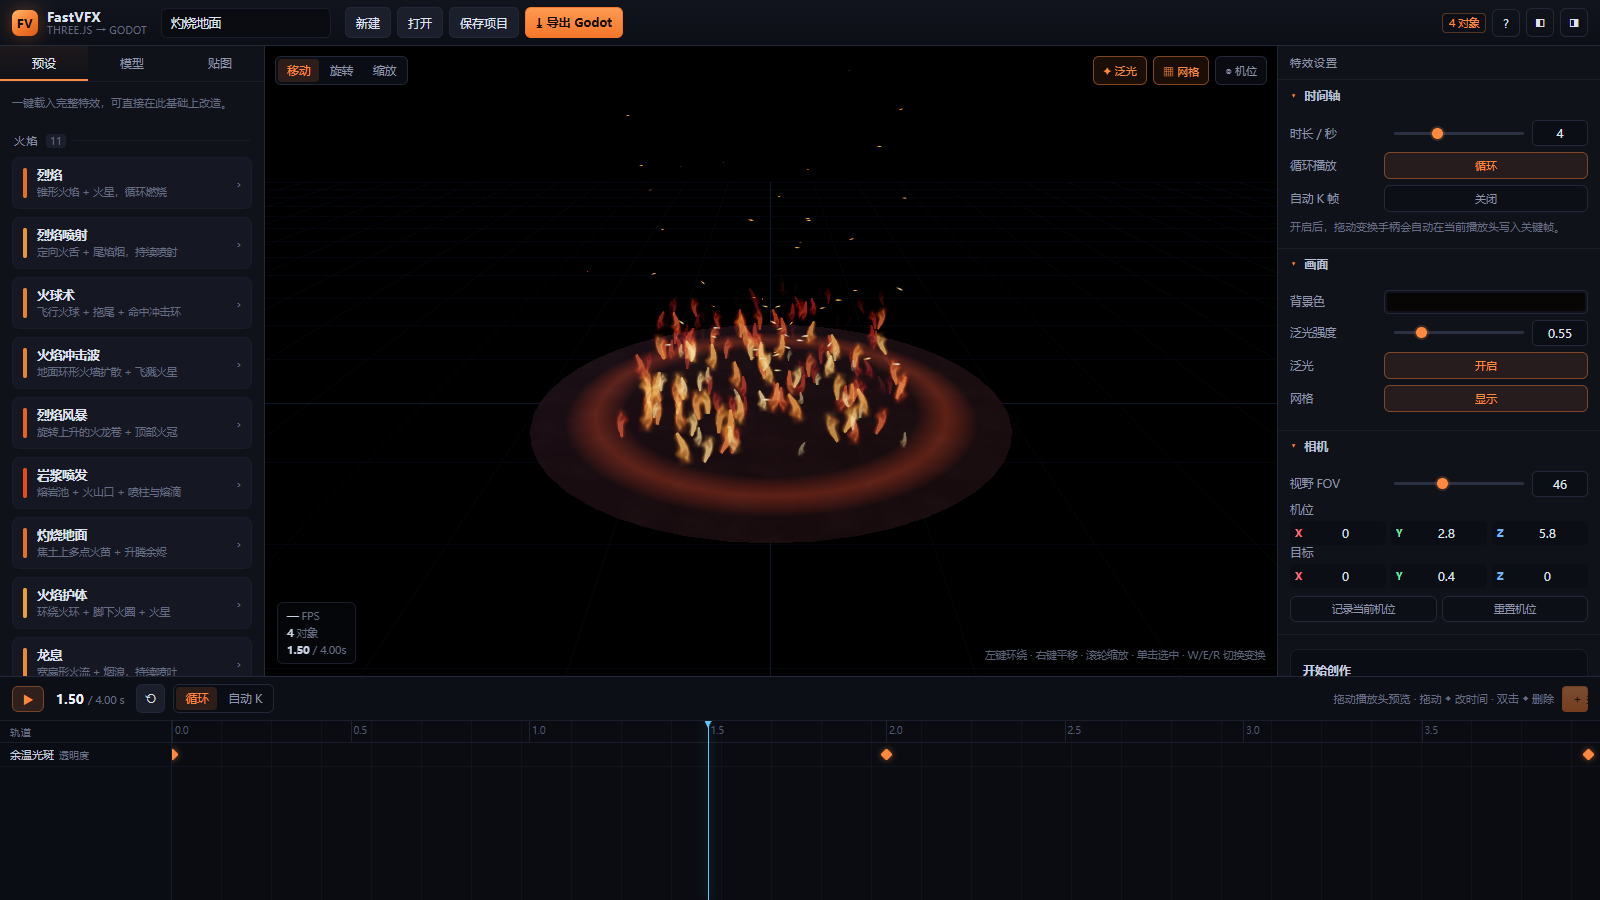
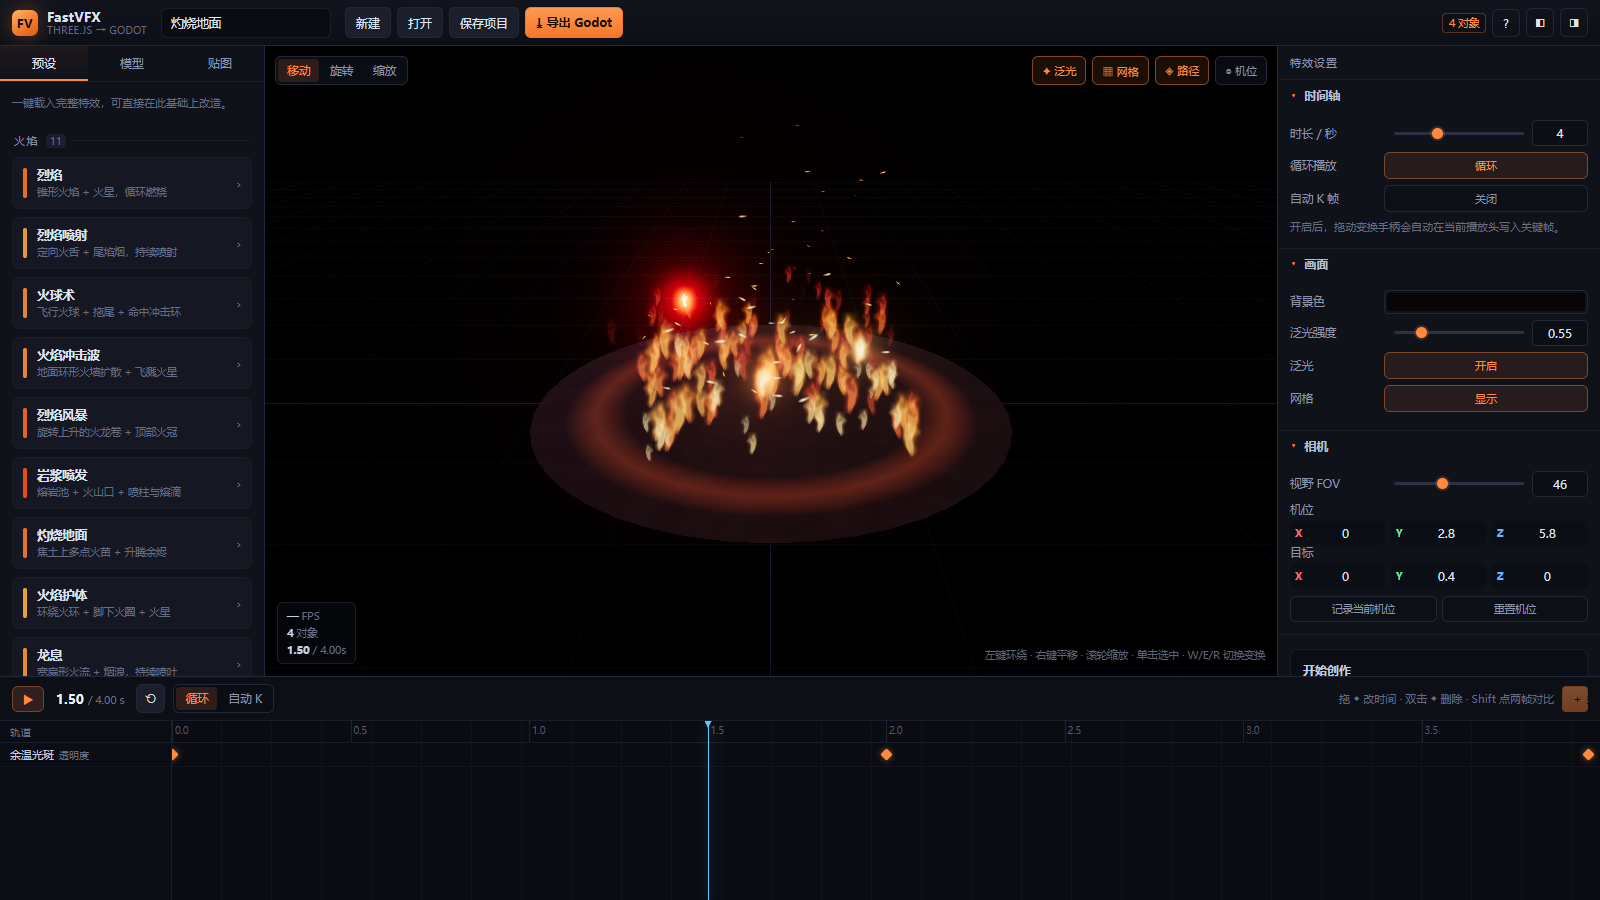
fix(vfx): 火焰/光束竖向贴图不再上下翻转，直立对齐速度方向并底边锚定生长

Changed region(s): [[0.375, 0.2489, 0.5938, 0.5289], [0.8438, 0.7467, 0.9688, 0.8089], [0.625, 0.0622, 0.75, 0.0933]]

diff --git a/src/core/particles.ts b/src/core/particles.ts
@@ -13,6 +13,7 @@ attribute float iStretch;
 attribute float iSeed;
 
 uniform float uAlign;
+uniform float uAxis;
 
 varying vec4 vColor;
 varying vec2 vUv;
@@ -26,13 +27,16 @@ void main() {
   vec4 mv = modelViewMatrix * vec4(iPos, 1.0);
 
   float ang = iRot;
+  // 竖向贴图（火焰 / 光束）不参与自由旋转，否则朝向速度方向时会被翻 180°
+  if (uAxis > 0.5) ang = 0.0;
   if (uAlign > 0.001) {
     vec3 vv = (modelViewMatrix * vec4(iVel, 0.0)).xyz;
     if (length(vv.xy) > 1e-5) {
-      float target = atan(vv.y, vv.x) - 1.5707963;
+      // uAxis=1: 贴图 +Y 沿速度；否则 +X 沿速度（横向拖尾贴图）
+      float target = uAxis > 0.5 ? atan(-vv.x, vv.y) : atan(vv.y, vv.x) - 1.5707963;
       ang = mix(ang, target, uAlign);
       // 对齐后再抖一点，避免所有粒子朝向完全一致而显出贴图重复
-      ang += (iSeed - 0.5) * 0.5;
+      ang += (iSeed - 0.5) * (uAxis > 0.5 ? 0.34 : 0.5);
     }
   }
 
@@ -44,6 +48,11 @@ void main() {
   vec2 rq = vec2(q.x * c - q.y * s, q.x * s + q.y * c);
 
   mv.xy += rq * iSize;
+  // 竖向贴图往生长方向偏一点，火舌从粒子位置向上窜，避免上下对称堆成一团
+  if (uAxis > 0.5) {
+    float lift = 0.34 * (1.0 + iStretch) * iSize;
+    mv.xy += vec2(-s, c) * lift;
+  }
   gl_Position = projectionMatrix * mv;
 }
 `
@@ -54,6 +63,8 @@ uniform float uOpacity;
 uniform float uTime;
 uniform float uHot;
 uniform float uFlicker;
+uniform float uFlipV;
+uniform float uAxis;
 
 varying vec4 vColor;
 varying vec2 vUv;
@@ -61,9 +72,10 @@ varying float vSeed;
 
 void main() {
   // 每颗粒子随机镜像 UV，消除同一张贴图反复出现的复制感
+  // 有方向的竖贴图（火焰 / 光束）关掉纵向镜像，否则会被上下翻转
   vec2 uv = vUv;
   float sx = mod(floor(vSeed * 7.0), 2.0);
-  float sy = mod(floor(vSeed * 13.0), 2.0);
+  float sy = mod(floor(vSeed * 13.0), 2.0) * uFlipV;
   uv = vec2(sx > 0.5 ? 1.0 - uv.x : uv.x, sy > 0.5 ? 1.0 - uv.y : uv.y);
 
   vec4 t = texture2D(uMap, uv);
@@ -77,6 +89,8 @@ void main() {
   float flick = mix(1.0, 0.84 + 0.16 * sin(uTime * 7.3 + vSeed * 24.0), uFlicker);
 
   float a = t.a * vColor.a * uOpacity * feather * flick;
+  // 竖向贴图软化根部，防止所有火舌底边对齐后拉出一条亮线
+  if (uAxis > 0.5) a *= smoothstep(0.0, 0.22, vUv.y);
   if (a <= 0.004) discard;
 
   // 白热核心：只让最密的中心过曝，其余保持彩色
@@ -175,7 +189,9 @@ export class ParticleSystem {
         uAlign: { value: 0 },
         uTime: { value: 0 },
         uHot: { value: 0.45 },
-        uFlicker: { value: 0.8 }
+        uFlicker: { value: 0.8 },
+        uAxis: { value: 0 },
+        uFlipV: { value: 1 }
       },
       transparent: true,
       depthWrite: false,
@@ -330,6 +346,11 @@ export class ParticleSystem {
         this.mat.uniforms.uFlicker.value = 0.8
     }
     const asset = this.findTexture(textures)
+    // 竖向有方向性的贴图：+Y 沿速度对齐，且不做纵向镜像（否则火焰会上下颠倒）
+    const gen = asset?.gen || ''
+    const vertical = gen === 'flame' || gen === 'beam'
+    this.mat.uniforms.uAxis.value = vertical ? 1 : 0
+    this.mat.uniforms.uFlipV.value = vertical ? 0 : 1
     // 烟雾层不该有白热核，否则大团粒子会整片过曝
     const hot = r.textureId === 'tex_smoke' ? 0.05 : 0.18
     if (this.mat.blending === THREE.AdditiveBlending) this.mat.uniforms.uHot.value = hot

diff --git a/src/core/godotExport.ts b/src/core/godotExport.ts
@@ -54,7 +54,7 @@ function canvasToBlob(asset: TextureAsset): Promise<Blob> {
 }
 
 /* -------------------------------- 粒子 -------------------------------- */
-function exportParticles(p: ParticleDoc, texPath: string | null) {
+function exportParticles(p: ParticleDoc, texPath: string | null, vertical = false) {
   const e = p.emission
   const m = p.motion
   const s = p.spin
@@ -114,7 +114,9 @@ function exportParticles(p: ParticleDoc, texPath: string | null) {
     texture: texPath || '',
     blend: r.blend === 'additive' ? 'additive' : 'alpha',
     stretch: round(s.stretch, 4),
-    align: round(s.align, 3)
+    align: round(s.align, 3),
+    // 竖向贴图（火焰 / 光束）在游戏引擎里也不做自由旋转，保持直立
+    vertical
   }
 }
 
@@ -255,7 +257,8 @@ export async function buildGodotPackage(doc: EffectDoc): Promise<GodotPackage> {
     }
     if (o.kind === 'particles') {
       const tex = o.render.textureId ? texFolder[o.render.textureId]?.file || '' : ''
-      return { ...base, particles: exportParticles(o, tex) }
+      const gen = doc.textures.find((t) => t.id === o.render.textureId)?.gen || ''
+      return { ...base, particles: exportParticles(o, tex, gen === 'flame' || gen === 'beam') }
     }
     const mat = exportMaterial(o)
     return {

diff --git a/src/core/godotRuntime.ts b/src/core/godotRuntime.ts
@@ -273,6 +273,13 @@ func _make_process(ps: Dictionary, base_dir: String) -> ParticleProcessMaterial:
 	m.angular_velocity_min = deg_to_rad(float(ps.get("angular_velocity_min", 0.0)))
 	m.angular_velocity_max = deg_to_rad(float(ps.get("angular_velocity_max", 0.0)))
 
+	# 竖向贴图（火焰 / 光束）不参与自由旋转，否则贴图会被上下翻转
+	if bool(ps.get("vertical", false)):
+		m.angle_min = deg_to_rad(-9.0)
+		m.angle_max = deg_to_rad(9.0)
+		m.angular_velocity_min = 0.0
+		m.angular_velocity_max = 0.0
+
 	if "particle_flag_align_y" in m:
 		m.particle_flag_align_y = float(ps.get("stretch", 0.0)) > 0.001
 

diff --git a/src/core/presets.ts b/src/core/presets.ts
@@ -120,7 +120,7 @@ function buildFire(): EffectDoc {
     ]),
     brightness: 0.72,
     spin: { angleMin: 0, angleMax: 360, speedMin: -32, speedMax: 32, align: 0.82, stretch: 0.07 },
-    render: { textureId: 'tex_flame', blend: 'additive', maxCount: 3000, opacity: 0.4, fadeIn: 0.1, fadeOut: 0.4 }
+    render: { textureId: 'tex_flame', blend: 'additive', maxCount: 3000, opacity: 0.3, fadeIn: 0.1, fadeOut: 0.4 }
   })
   fire.clusters = 4
   fire.clusterRadius = 0.34

diff --git a/README.md b/README.md
@@ -41,6 +41,7 @@ npm run build    # 产物在 dist/
 ### 渲染细节（去「纸片感」的几个关键处理）
 
 - **逐粒子随机**：每颗粒子带独立种子，尺寸抖动 0.82~1.24 倍、亮度抖动 ±14%、UV 四向随机镜像，避免整片粒子像同一张贴图复制
+- **竖向贴图不翻转**：`flame` / `beam` 这类「底厚顶尖」的方向性贴图会被识别为竖向贴图（`uAxis=1`、`uFlipV=0`）——不做 UV 纵向镜像、不参与 0~360° 自由旋转，`+Y` 轴对齐速度方向，并以贴图底边为锚点向上生长、根部做软化淡出；横向拖尾贴图（`spark` / `slash`）仍按 `+X` 对齐，各向同性贴图保留四向随机镜像
 - **闪烁**：加色粒子的亮度按 7.3Hz 正弦起伏，火焰有呼吸感而不是静止贴图
 - **高清丝状火舌贴图**：`flame` 单独走 1024 分辨率，域扭曲让火舌随高度摆动，三条高斯火舌 + 双频丝状断口 + 竖向包络（底厚顶尖），底部带白热核，远看是连续火焰、近看有丝
 - **白热核心**：贴图高密度处向白热过曝（烟雾层除外），配合 ACES tone mapping + UnrealBloom 出真实的亮心
